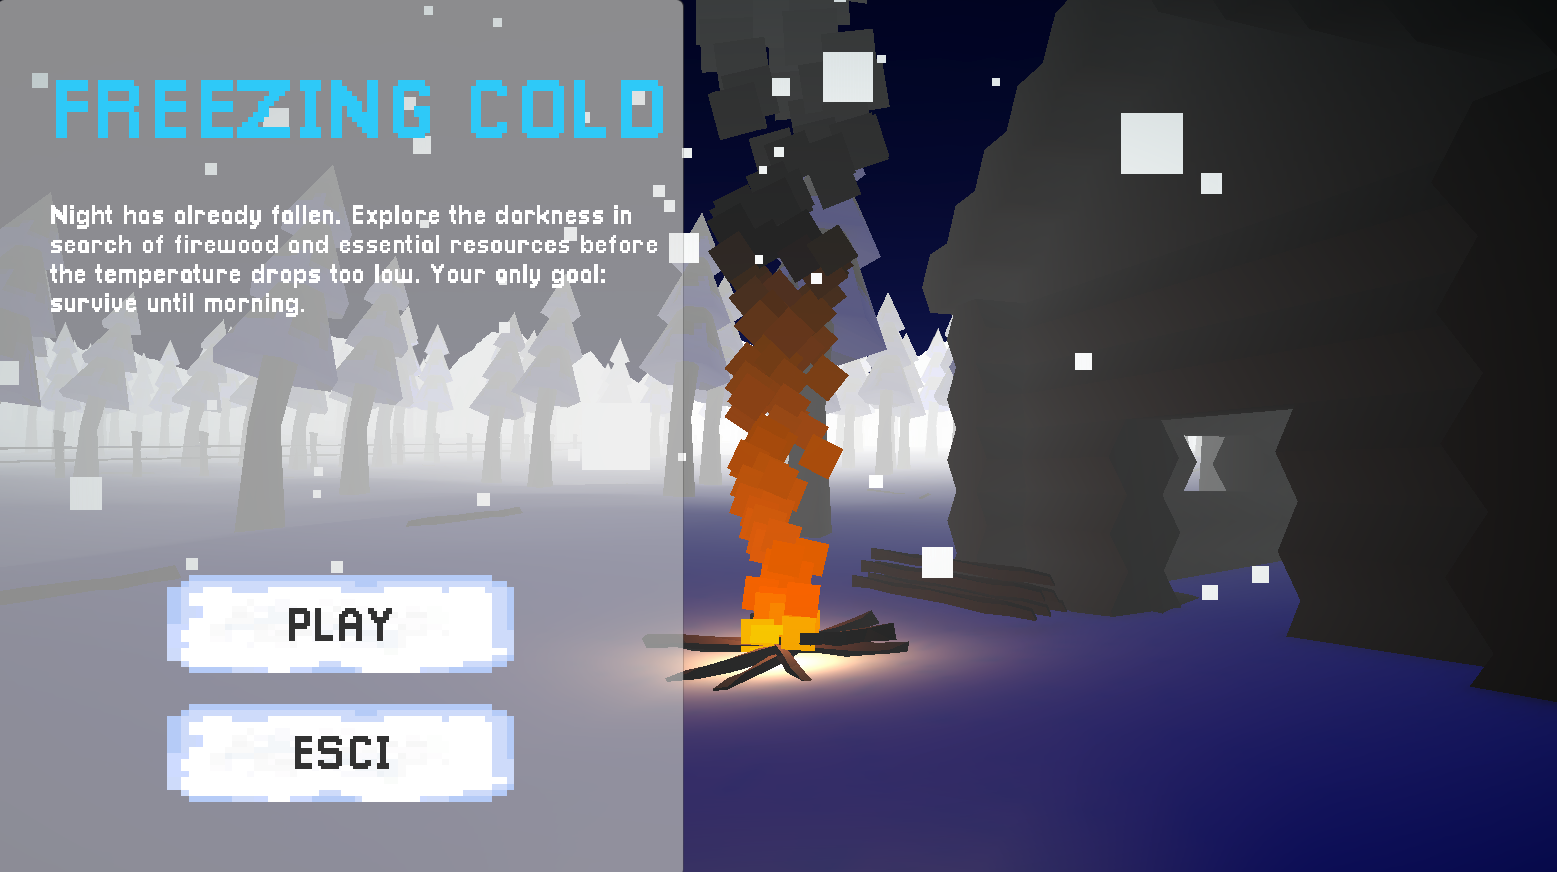
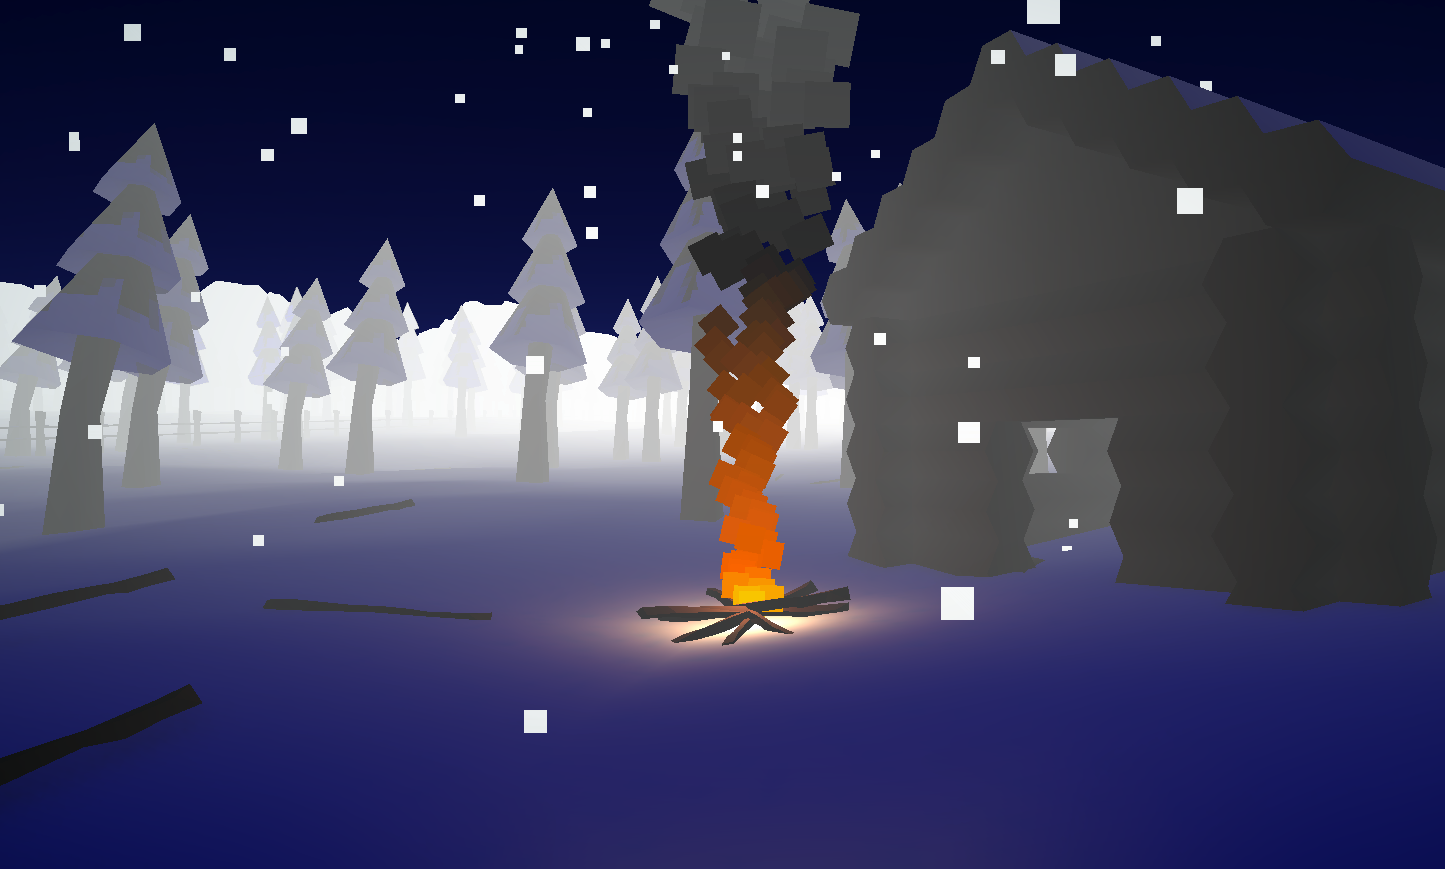
¨FC_Cover¨

diff --git a/index.html b/index.html
@@ -134,12 +134,12 @@
 
         <article class="project-card" data-tags="pc">
           <a href="project-freezingcold.html" class="project-card__media">
-            <img src="assets/freezingcold/card.png" alt="Freezing Cold title screen, a bonfire glowing in a snowy forest at night">
+            <img src="assets/freezingcold/card.png" alt="Bonfire glowing next to a cabin in a snowy forest at night, Freezing Cold cover art">
           </a>
           <div class="project-card__body">
             <div class="project-card__tags"><span>PC</span></div>
             <h3 class="project-card__title">Freezing Cold</h3>
-            <p class="project-card__desc">Solo exploration/puzzle game, code and assets built from scratch in ~7 hours for a school exam, with 3 different endings.</p>
+            <p class="project-card__desc">Solo exploration/puzzle game, code and assets built from scratch in less than 7 hours for a school exam, with 3 different endings.</p>
             <a href="project-freezingcold.html" class="project-card__link">View project →</a>
           </div>
         </article>